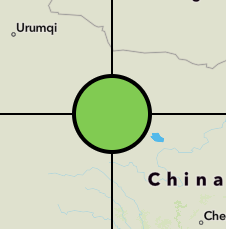
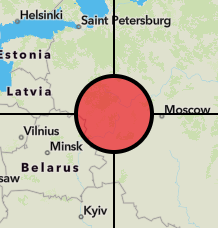
red means hot; blue means cold

diff --git a/src/components/THMap.js b/src/components/THMap.js
@@ -149,10 +149,10 @@ export const THMap = ({
             console.log("distance ratio", distanceRatio);
             console.log("intensity", intensity);
 
-            const green = parseInt(255*intensity);
-            const red = parseInt(255*(1-intensity));            
+            const red = parseInt(255*intensity);
+            const blue = parseInt(255*(1-intensity));            
 
-            square.style.backgroundColor = `rgba(${red+","+green+",0,0.6"}`;
+            square.style.backgroundColor = `rgba(${red+",0,"+blue+",0.6"}`;
 
         }
     );

diff --git a/src/components/viewfinder.css b/src/components/viewfinder.css
@@ -14,11 +14,11 @@
 */
 
 @keyframes blinkingBorder{
-    0%		{ border-color: green;}
-    25%		{ border-color: lime;}
-    50%		{ border-color: green;}
-    75%		{ border-color: lime;}
-    100%	{ border-color: green;}
+    0%		{ border-color: darkred;}
+    25%		{ border-color: red;}
+    50%		{ border-color: darkred;}
+    75%		{ border-color: red;}
+    100%	{ border-color: darkred;}
 }
 
 #square, #axis-y-top, #axis-y-bottom, #axis-x-left, #axis-x-right {
